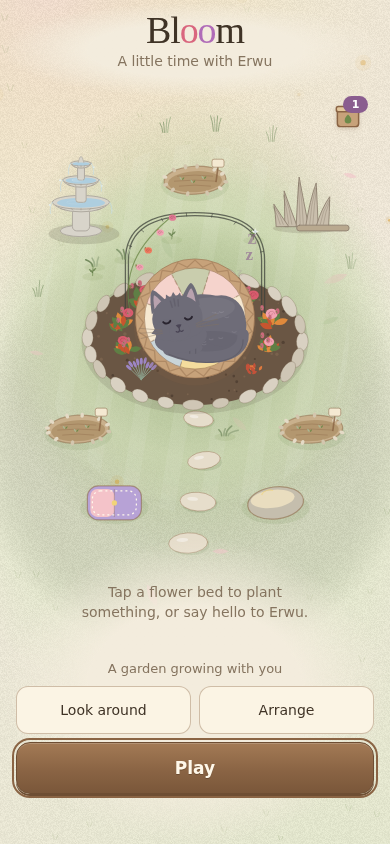
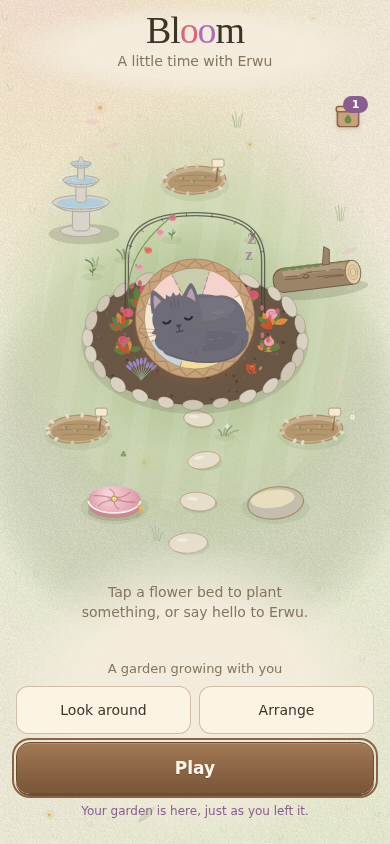
Swap the deadwood for a fallen log, redraw the cushion, tidy the run-end card
- The spiky deadwood becomes a fallen log (bark, cut end with rings,
  knot, broken branch, moss), lying lower and further in than the
  fountain so they no longer line up. Layout test checks it stays off
  the rose bed and out of line with the fountain.
- Erwu's cushion is redrawn as a plump, tufted floor pouf.
- The run-end card lists what changed in the garden (one row per bed or
  seed, with a colour swatch and the new stage) instead of run-on
  sentences, and compacts on short screens so its buttons always fit.

Claude-Session: https://claude.ai/code/session_012nyyi4csaEj4itTXifEHUn

diff --git a/index.html b/index.html
@@ -289,6 +289,27 @@
   }
   .card .newbest { color: var(--bud-deep); font-weight: 600; }
   .card .note { margin-top: 10px; font-size: 13.5px; text-wrap: balance; }
+  /* the run's garden news: a small stitched list, one row per bed or seed */
+  .over-garden-title { margin: 2px 0 6px; font-size: 12px; letter-spacing: 0.04em; color: var(--ink-soft); }
+  .over-garden { list-style: none; margin: 0 auto; padding: 4px 0; max-width: 260px; text-align: left; border-block: 1px dashed var(--stitch); }
+  .over-garden li { display: grid; grid-template-columns: 20px 1fr auto; align-items: center; gap: 8px; padding: 5px 2px; }
+  .over-garden li + li { border-top: 1px solid var(--hairline); }
+  .over-garden i { width: 16px; height: 16px; border-radius: 50%; background: var(--c); box-shadow: inset 0 0 0 1.5px rgba(255,255,255,.6), 0 0 0 1px var(--hairline); }
+  .over-garden i.rare { background: radial-gradient(circle at 35% 30%, #fff 0 14%, var(--c) 15%); }
+  .over-garden b { display: block; font: 500 14px/1.15 var(--serif); color: var(--ink); }
+  .over-garden small { display: block; font-size: 11.5px; color: var(--ink-soft); }
+  #over { overflow-y: auto; }
+  @media (max-height: 680px) {
+    #over { padding: 12px; }
+    .card { padding: 14px 20px 16px; }
+    .card canvas { width: 76px; height: 76px; }
+    .card .big { font-size: 60px; }
+    #over-title { font-size: 15px; }
+    .card .note { margin-top: 6px; }
+    .over-garden li { padding: 3px 2px; }
+    .over-garden-title { margin-bottom: 3px; }
+  }
+  .over-garden span { font-size: 12px; font-weight: 600; color: var(--moss); }
   .card .wood { margin-top: 20px; width: 100%; }
   .wood {
     height: 52px;
@@ -624,7 +645,7 @@
     <p id="over-title">Erwu's curled up for a nap</p>
     <div class="big" id="over-turn">0</div>
     <p id="over-best">turns</p>
-    <p class="note" id="over-note">The garden keeps everything you grew.</p>
+    <div class="note" id="over-note">The garden keeps everything you grew.</div>
     <button id="again" class="wood">Play again</button>
     <button id="to-garden" class="linkish">Back to the garden</button>
   </div>
@@ -1437,11 +1458,20 @@
       if (planting) g.globalAlpha = 1;
       drawBed(g, item, !!planting, planting);
     } else if (item.kind === 'cushion') {
-      g.fillStyle = C.lavender; g.beginPath(); g.roundRect(-27,-17,54,34,11); g.fill(); g.stroke();
-      g.fillStyle = C['petal-bloom']; g.beginPath(); g.roundRect(-24,-14,24,28,7); g.fill();
-      g.setLineDash([2,3]); g.strokeStyle = '#FFF9EC'; g.beginPath(); g.roundRect(-22,-12,44,24,8); g.stroke(); g.setLineDash([]);
-      g.strokeStyle = rgb(hexRgb(C.walnut),0.3); g.beginPath(); g.moveTo(0,-14); g.lineTo(0,14); g.stroke();
-      g.fillStyle = C.butter; g.beginPath(); g.arc(0,0,2.6,0,TAU); g.fill();
+      // a plump round floor cushion: a deep side, a domed top tufted to a button, piping, a tassel
+      g.fillStyle = 'rgba(79,70,55,0.16)'; g.beginPath(); g.ellipse(1, 9, 28, 9, 0, 0, TAU); g.fill();
+      g.fillStyle = '#C98896'; g.beginPath(); g.ellipse(0, 3, 26, 12, 0, 0, Math.PI); g.lineTo(-26, -3); g.ellipse(0, -3, 26, 12, 0, Math.PI, 0, true); g.closePath(); g.fill();
+      const dome = g.createRadialGradient(-7, -9, 2, 0, -4, 28);
+      dome.addColorStop(0, '#F6D3D9'); dome.addColorStop(0.6, '#E7AEB9'); dome.addColorStop(1, '#D6939F');
+      g.fillStyle = dome; g.beginPath(); g.ellipse(0, -4, 26, 13, 0, 0, TAU); g.fill();
+      g.strokeStyle = '#FFF1E8'; g.lineWidth = 1.8; g.beginPath(); g.ellipse(0, -2.5, 26, 12.5, 0, 0.05, Math.PI - 0.05); g.stroke();
+      g.strokeStyle = 'rgba(160,90,105,0.5)'; g.lineWidth = 1.1;
+      for (let i = 0; i < 6; i++) { const a = i / 6 * TAU + 0.3; g.beginPath(); g.moveTo(Math.cos(a) * 3, -4 + Math.sin(a) * 1.6); g.quadraticCurveTo(Math.cos(a + 0.35) * 13, -4 + Math.sin(a + 0.35) * 6.5, Math.cos(a) * 22, -4 + Math.sin(a) * 10.5); g.stroke(); }
+      g.fillStyle = 'rgba(160,90,105,0.16)'; g.beginPath(); g.ellipse(0, -4, 7, 3.2, 0, 0, TAU); g.fill();
+      g.fillStyle = C.butter; g.strokeStyle = 'rgba(138,100,68,0.7)'; g.lineWidth = 0.8; g.beginPath(); g.arc(0, -4, 2.8, 0, TAU); g.fill(); g.stroke();
+      g.fillStyle = 'rgba(255,255,255,0.8)'; g.beginPath(); g.arc(-0.8, -4.9, 0.8, 0, TAU); g.fill();
+      g.strokeStyle = '#E7B84C'; g.lineWidth = 1.3; g.beginPath(); g.moveTo(24, 4); g.quadraticCurveTo(27, 7, 27, 12); g.moveTo(25, 4); g.quadraticCurveTo(29, 7, 30, 11); g.stroke();
+      g.fillStyle = '#E7B84C'; g.beginPath(); g.arc(24.5, 3.5, 1.6, 0, TAU); g.fill();
     } else if (item.kind === 'stone') {
       g.fillStyle = '#C5BEAD'; g.beginPath(); g.ellipse(0,0,28,16,-.12,0,TAU); g.fill(); g.stroke();
       g.fillStyle = '#E9DDBF'; g.beginPath(); g.ellipse(-3,-4,22,9,-.12,0,TAU); g.fill();
@@ -1579,34 +1609,49 @@
     g.strokeStyle = 'rgba(90,50,30,0.45)'; g.lineWidth = 0.5; g.beginPath(); g.moveTo(-s, 0); g.lineTo(s * 0.9, 0); g.stroke();
     g.restore();
   }
+  // The fallen log: weathered bark, a cut end showing its rings, a broken-off branch,
+  // and a patch of moss. Ferns and a fairy ring join it as the garden grows.
   function drawDeadwood(g, d, k, tier = 0) {
-    // weathered driftwood: silver-grey spikes curling up out of the gravel, and a log beside it
-    const base = d.y, hgt = d.height;
-    g.fillStyle = 'rgba(79,70,55,0.16)'; g.beginPath(); g.ellipse(d.x, base + 2, d.width * 0.7, 5, 0, 0, TAU); g.fill();
-    const spikes = [[-0.32, 0.72, -0.35], [-0.08, 1, -0.12], [0.12, 0.88, 0.18], [0.34, 0.6, 0.45], [-0.5, 0.45, -0.7]];
-    for (const [ox, hk, lean] of spikes) {
-      const x0 = d.x + ox * d.width, h = hgt * hk, tipx = x0 + lean * h * 0.55, w = d.width * 0.13;
-      g.fillStyle = '#C9BEAC'; g.strokeStyle = '#8E8170'; g.lineWidth = 0.9;
-      g.beginPath(); g.moveTo(x0 - w, base); g.quadraticCurveTo(x0 - w * 0.6 + lean * h * 0.2, base - h * 0.6, tipx, base - h);
-      g.quadraticCurveTo(x0 + w * 0.5 + lean * h * 0.3, base - h * 0.5, x0 + w, base); g.closePath(); g.fill(); g.stroke();
-      g.strokeStyle = 'rgba(120,108,92,0.5)'; g.lineWidth = 0.6;
-      for (const t of [-0.35, 0.15]) { g.beginPath(); g.moveTo(x0 + t * w, base - 2); g.quadraticCurveTo(x0 + t * w + lean * h * 0.15, base - h * 0.5, tipx + t * 2, base - h * 0.88); g.stroke(); }
+    const L = d.width, T = d.height * 0.72, x0 = d.x - L / 2, base = d.y, tilt = -0.12;
+    g.save(); g.translate(d.x, base); g.rotate(tilt); g.translate(-d.x, -base);
+    g.fillStyle = 'rgba(79,70,55,0.18)'; g.beginPath(); g.ellipse(d.x + 2, base + 2, L * 0.55, T * 0.35, 0, 0, TAU); g.fill();
+    // the trunk, with a lighter top where the light catches it
+    g.fillStyle = '#9C8468'; g.strokeStyle = '#6E5A45'; g.lineWidth = 1;
+    g.beginPath(); g.roundRect(x0, base - T, L, T, T * 0.45); g.fill(); g.stroke();
+    g.fillStyle = 'rgba(255,240,215,0.22)'; g.beginPath(); g.roundRect(x0 + T * 0.4, base - T + 1.5, L - T * 0.9, T * 0.28, T * 0.14); g.fill();
+    g.strokeStyle = 'rgba(80,62,45,0.55)'; g.lineWidth = 0.8;
+    const rnd = seeded(887);
+    for (let i = 0; i < 7; i++) {
+      const bx = x0 + T * 0.5 + rnd() * (L - T * 1.3), len = L * (0.12 + rnd() * 0.18), by = base - T * (0.25 + rnd() * 0.5);
+      g.beginPath(); g.moveTo(bx, by); g.quadraticCurveTo(bx + len * 0.5, by + (rnd() - 0.5) * 2, bx + len, by + (rnd() - 0.5) * 2); g.stroke();
     }
-    g.fillStyle = '#B9A98F'; g.strokeStyle = '#8E8170'; g.lineWidth = 0.9;
-    g.beginPath(); g.roundRect(d.x - d.width * 0.2, base - 1 * k, d.width * 1.1, 5 * k, 2.5 * k); g.fill(); g.stroke();
+    // a knot and a broken-off branch
+    g.beginPath(); g.ellipse(x0 + L * 0.38, base - T * 0.55, T * 0.12, T * 0.08, 0, 0, TAU); g.stroke();
+    g.fillStyle = '#9C8468'; g.strokeStyle = '#6E5A45';
+    g.beginPath(); g.moveTo(x0 + L * 0.58, base - T + 1); g.lineTo(x0 + L * 0.62, base - T - T * 0.7); g.lineTo(x0 + L * 0.68, base - T - T * 0.55); g.lineTo(x0 + L * 0.66, base - T + 1); g.closePath(); g.fill(); g.stroke();
+    // the cut end, with its rings
+    const ex = x0 + L - T * 0.3, ey = base - T / 2;
+    g.fillStyle = '#E3CFA8'; g.strokeStyle = '#8E7152'; g.lineWidth = 1;
+    g.beginPath(); g.ellipse(ex, ey, T * 0.32, T * 0.5, 0, 0, TAU); g.fill(); g.stroke();
+    g.strokeStyle = 'rgba(142,113,82,0.6)'; g.lineWidth = 0.6;
+    for (const r of [0.35, 0.62]) { g.beginPath(); g.ellipse(ex, ey, T * 0.32 * r, T * 0.5 * r, 0, 0, TAU); g.stroke(); }
+    // moss along the top
+    g.fillStyle = 'rgba(110,138,74,0.7)';
+    for (let i = 0; i < 5; i++) { g.beginPath(); g.ellipse(x0 + L * (0.15 + i * 0.09), base - T + 1, 3 * k, 1.8 * k, 0, 0, TAU); g.fill(); }
+    g.restore();
     // ferns unfurl around it once the garden is growing; later, a little fairy ring
-    if (tier >= 1) for (const [ox, dir] of [[-0.62, -1], [0.55, 1], [-0.2, -1]].slice(0, 1 + Math.min(2, tier - 1))) {
-      const fx = d.x + ox * d.width, len = 12 * k;
+    if (tier >= 1) for (const [ox, dir] of [[-0.5, -1], [0.1, 1], [-0.2, -1]].slice(0, 1 + Math.min(2, tier - 1))) {
+      const fx = d.x + ox * L, len = 12 * k, fb = base - T * 0.2;
       g.strokeStyle = rgb(hexRgb(C.moss), 0.9); g.lineWidth = 1;
-      const tx = fx + dir * len * 0.8, ty = base - len;
-      g.beginPath(); g.moveTo(fx, base + 1); g.quadraticCurveTo(fx, ty, tx, ty); g.stroke();
+      const tx = fx + dir * len * 0.8, ty = fb - len;
+      g.beginPath(); g.moveTo(fx, fb); g.quadraticCurveTo(fx, ty, tx, ty); g.stroke();
       for (let i = 1; i <= 5; i++) {
-        const t = i / 6, mx = fx + (tx - fx) * t * t, my = base + 1 + (ty - base - 1) * (2 * t - t * t), l = 4 * k * (1 - t * 0.5);
+        const t = i / 6, mx = fx + (tx - fx) * t * t, my = fb + (ty - fb) * (2 * t - t * t), l = 4 * k * (1 - t * 0.5);
         leafAt(g, mx, my, -Math.PI / 2 - 0.9, l, l * 0.35, rgb(hexRgb(C.moss), 0.85)); leafAt(g, mx, my, -Math.PI / 2 + 0.9, l, l * 0.35, rgb(hexRgb(C.moss), 0.85));
       }
     }
     if (tier >= 4) for (let i = 0; i < 7; i++) {
-      const a = i / 7 * TAU, mx = d.x - d.width * 0.1 + Math.cos(a) * 13 * k, my = base + 12 * k + Math.sin(a) * 5 * k, ms = 2.2 * k;
+      const a = i / 7 * TAU, mx = d.x - L * 0.1 + Math.cos(a) * 13 * k, my = base + 12 * k + Math.sin(a) * 5 * k, ms = 2.2 * k;
       g.fillStyle = '#F7EEDC'; g.fillRect(mx - 0.5, my - ms, 1, ms);
       g.fillStyle = i % 2 ? '#D9665F' : '#C9A56E'; g.beginPath(); g.ellipse(mx, my - ms, ms, ms * 0.7, 0, Math.PI, TAU); g.fill();
     }
@@ -2515,28 +2560,40 @@
     };
     requestAnimationFrame(step);
   }
-  // What this run changed in the garden, in a sentence or two; the total is always kept.
+  // What this run changed in the garden: one short row per bed that reached a new
+  // stage, and per rare seed found; or a single quiet line when nothing changed.
   function runSummary() {
-    const out = [];
+    const rows = [];
     const before = runLog ? runLog.beds : {};
     for (const bed of garden.patches) {
       if (!bed.flower || bed.anchor === null) continue;
-      const now = bed.flower + ':' + BloomBeds.stage(bed);
-      if (before[bed.id] === now) continue;
-      const name = bedName(bed).replace(/^the /, 'The ');
       const st = BloomBeds.stage(bed);
-      out.push(st === 'planted' ? `${name} has taken root.` : `${name} ${stageWords[st]} now.`);
+      if (before[bed.id] === bed.flower + ':' + st) continue;
+      rows.push({ kind: bed.flower, name: BloomBeds.NAMES[bed.flower], where: BloomGardenLayout.placeName(bed.anchor).replace(/^the /, ''), what: BloomBeds.STAGE_NAMES[st] });
     }
-    for (const kind of runLog ? runLog.seeds : []) out.push(`You found a ${BloomBeds.NAMES[kind].toLowerCase()} seed.`);
-    if (!out.length) {
-      const bed = BloomBeds.focusBed(garden);
-      // no new stage this run: say how close the bed you're growing is to the next one
-      const next = bed && [[0.2, 'growing well'], [0.55, 'flowering'], [1, 'fully established']].find(([t]) => bed.growth < t);
-      const name = bed && bedName(bed).replace(/^the /, 'The ');
-      out.push(!bed ? 'The garden keeps everything you grew.'
-        : next[0] - bed.growth < 0.1 ? `${name} is nearly ${next[1]}.` : `${name} grew a little. The garden keeps everything you grew.`);
+    for (const kind of runLog ? runLog.seeds : []) rows.push({ kind, name: `${BloomBeds.NAMES[kind]} seed`, where: 'in your seed tin', what: 'Found', rare: true });
+    if (rows.length) return { title: 'In the garden this run', rows: rows.slice(0, 4) };
+    const bed = BloomBeds.focusBed(garden);
+    const next = bed && [[0.2, 'growing well'], [0.55, 'flowering'], [1, 'fully established']].find(([t]) => bed.growth < t);
+    return { title: '', text: !bed ? 'The garden keeps everything you grew.'
+      : next[0] - bed.growth < 0.1 ? `${bedName(bed).replace(/^the /, 'The ')} is nearly ${next[1]}.` : `${bedName(bed).replace(/^the /, 'The ')} grew a little.` };
+  }
+  function showSummary() {
+    const sum = runSummary();
+    el.overNote.replaceChildren();
+    if (!sum.rows) { el.overNote.textContent = sum.text; return; }
+    const h = document.createElement('p'); h.className = 'over-garden-title'; h.textContent = sum.title;
+    const ul = document.createElement('ul'); ul.className = 'over-garden';
+    for (const r of sum.rows) {
+      const li = document.createElement('li');
+      const sw = document.createElement('i'); sw.style.setProperty('--c', CHIP_COLOURS[r.kind]); if (r.rare) sw.className = 'rare';
+      const name = document.createElement('b'); name.textContent = r.name;
+      const where = document.createElement('small'); where.textContent = r.where;
+      const what = document.createElement('span'); what.textContent = r.what;
+      const label = document.createElement('div'); label.append(name, where);
+      li.append(sw, label, what); ul.append(li);
     }
-    return out.slice(0, 3).join(' ');
+    el.overNote.append(h, ul);
   }
   function gameOver() {
     state = 'over'; readySnapshot = null;
@@ -2554,7 +2611,7 @@
       el.overTitle.textContent = `${CAT_NAME}'s curled up for a nap`;
       countUp(el.overTurn, turn);
       el.overBest.textContent = isBest ? 'turns, a new best' : `turns, best is ${best}`;
-      el.overNote.textContent = runSummary();
+      showSummary();
       el.overBest.classList.toggle('newbest', isBest);
       drawCardCat();
       el.over.hidden = false;

diff --git a/garden-layout.js b/garden-layout.js
@@ -125,7 +125,8 @@
     return {
       roses: { x: 0, y: n * 0.35, rx, ry },
       fountain: { x: -Math.min(x * 0.82, scene.width / 2 - fh * 0.42), y: -h * 0.19, width: fh * 0.72, height: fh },
-      deadwood: { x: Math.min(x * 0.8, scene.width / 2 - fh * 0.5), y: -h * 0.2, width: fh * 0.6, height: fh * 0.62 },
+      // a fallen log, lying a little lower and further in than the fountain opposite
+      deadwood: { x: Math.min(scene.width / 2 - fh * 0.55 - 6, Math.max(x * 0.76, rx * 0.74 + fh * 0.55)), y: Math.min(-h * 0.05, n * 0.35 - ry * 0.75), width: fh * 1.1, height: fh * 0.42 },
       // the stepping-stone path from the front of the lawn up to the rose bed
       path: { top: n * 0.35 + ry + 6, width: 24 },
     };

diff --git a/README.md b/README.md
@@ -8,7 +8,7 @@ Open the GitHub Pages site on your iPhone in Safari, tap Share, then **Add to Ho
 
 ## How it plays
 
-The game opens in Erwu's garden, drawn after the real one: a round rose bed with a rose arch in the middle, where Erwu is curled up asleep in her basket; a three-tier stone fountain and a weathered piece of deadwood at the back; and stepping stones up a lawn that fades softly into the page. Tap her and she sits up to say hello; left alone, she curls back up. Tap a flower bed to plant it, tap a plant to look closer, or use **Look around** to choose a plant by name. **Play** or **Continue** starts immediately, even while Erwu is responding.
+The game opens in Erwu's garden, drawn after the real one: a round rose bed with a rose arch in the middle, where Erwu is curled up asleep in her basket; a three-tier stone fountain and a fallen log at the back; and stepping stones up a lawn that fades softly into the page. Tap her and she sits up to say hello; left alone, she curls back up. Tap a flower bed to plant it, tap a plant to look closer, or use **Look around** to choose a plant by name. **Play** or **Continue** starts immediately, even while Erwu is responding.
 
 The leaf button brings you back to the garden without resetting your run. During a shot it waits for the turn to finish; tap it again to cancel. After a run ends, **Back to the garden** lets you linger, and **Play again** explicitly starts the next run.
 
@@ -50,7 +50,7 @@ The leaf button brings you back to the garden without resetting your run. During
 - The garden has its own uncluttered view, with a detail area below the scene. On a short landscape screen, the details sit beside it. Rotating the phone changes the presentation, never saved plant positions.
 - The five buds under **Best** show how grown the garden is. Once it's growing well, butterflies start to visit.
 - **Full bloom** lights the petals one by one, then bursts: sunbeams, a petal shower, hearts from Erwu and a couple of butterflies set free.
-- Everything growing on the lawn comes from play. As the garden grows, lawn daisies and clover spread, a wildflower meadow creeps in from the edges, moss finds the stepping stones, ferns unfurl by the deadwood, ivy climbs the fountain, a robin starts visiting it, and a fairy ring appears.
+- Everything growing on the lawn comes from play. As the garden grows, lawn daisies and clover spread, a wildflower meadow creeps in from the edges, moss finds the stepping stones, ferns unfurl by the log, ivy climbs the fountain, a robin starts visiting it, and a fairy ring appears.
 - Your plants and their growth stay yours, however long you are away. After about half a day, the garden gradually rests: the light turns soft and cool like evening, flowers fold and droop a little, fewer petals drift by, visitors grow quieter, and tufts of grass appear along the edges. Autumn leaves settle on the lawn, the fountain stills with a leaf floating in it, the grass grows a little long with a few dandelion clocks, fireflies drift in the evening light, and a snail takes its time across the path. It never withers away.
 - Returning gently wakes the garden even if you just sit with Erwu. Playing a few turns helps it wake sooner; there are no cleanup chores or lost progress.
 

diff --git a/.scratch/04-cultivation-through-play.md b/.scratch/04-cultivation-through-play.md
@@ -68,3 +68,7 @@ Observed 2026-09-26 with a bot playing ordinary runs in the browser. It aims at 
 - The first bed established in three runs in both gardens, at the top of the 1–3 run target. A person, whose runs last longer, should get there sooner, so the starting values are kept.
 - The run-end card said "The lavender in the morning bed is growing well now.", "…is flowering now." / "…is nearly flowering." and "…is fully established now." When a run crosses no stage, it now says how close the bed is ("nearly flowering") rather than just "grew a little".
 - Still to confirm with the owner's real play on the phone.
+
+### Run-end card — 2026-09-26
+
+On owner feedback, the end-of-run text is no longer run-on sentences. Under "In the garden this run" it shows a short stitched list, with one row per bed that reached a new stage and one per rare seed found (colour swatch, plant, place, and the new stage or "Found"), at most four rows. With nothing new, it shows one quiet line ("The lavender in the morning bed is nearly flowering."). On short screens the card compacts so that Play again and Back to the garden always fit (checked at 320 × 568). Ticket 08 still covers the game-over pose and the return ritual. Evidence: `v08-evidence/run-summary-card.png`.

diff --git a/.scratch/03-garden-layout-and-customization.md b/.scratch/03-garden-layout-and-customization.md
@@ -102,3 +102,8 @@ The owner shared photos of their garden. The garden view now follows it (photos 
 | 5 | the meadow and lawn at their fullest; every rose open |
 
 - A unit test checks at five phone sizes that beds, furnishings, the fountain, the deadwood, the rose bed and the path keep clear of one another, and that wild plants always land on screen.
+
+### Owner feedback — 2026-09-26 (second pass)
+
+- **Log:** the spiky deadwood is now a fallen log, with weathered bark, a cut end showing its rings, a knot, a broken-off branch and moss. It lies at a slight angle, lower and further in than the fountain opposite, so the two no longer line up. The ferns and fairy ring now grow beside the log. The test also checks that the log stays off the rose bed and out of line with the fountain.
+- **Cushion:** redrawn as a plump round floor pouf, with a deep side, a domed top tufted to a button, cream piping and a little gold tassel.

diff --git a/.scratch/v08-evidence/README.md b/.scratch/v08-evidence/README.md
@@ -24,3 +24,7 @@ Captured from the working branch in headless Chromium with generated garden data
 - [Dandelion clocks, ripe wild strawberries and a sunflower](rare-b-390x844.png).
 - [A seed bud during play](run-seed-bud-390x844.png) (the acorn pod beside the bud, top right of Erwu), with the planted beds above the flower.
 - [Collecting it](run-seed-found-390x844.png): the banner as the seed flies to the tin beside Best.
+
+## End of a run (ticket 04)
+
+- [The run-end card](run-summary-card.png): what changed in the garden this run, as a short list.
